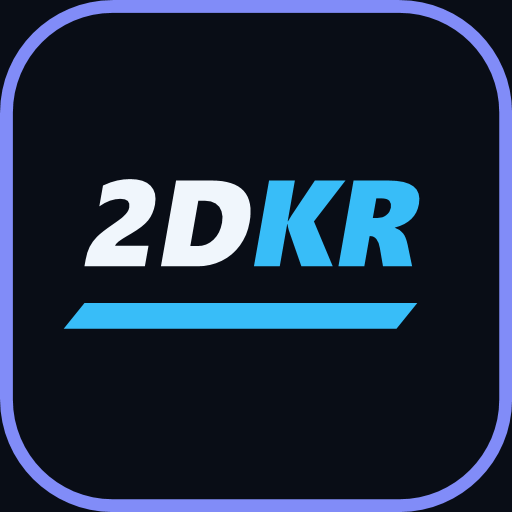
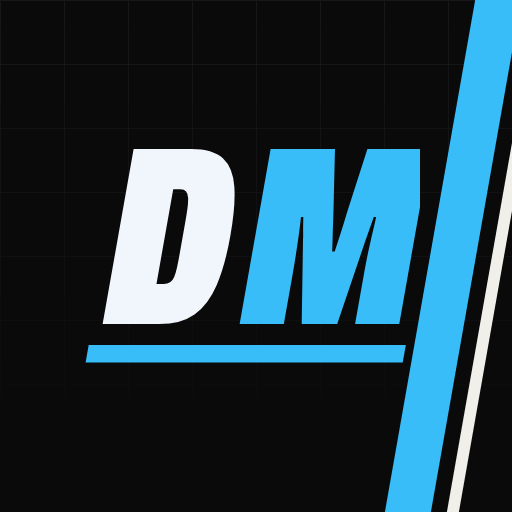
v0.8 : renommage en DekurMods
- Nouveau logo DEKURMODS, favicon et icones (monogramme DM)
- Apercus OpenGraph refaits avec le nouveau nom
- Textes, canonique, sitemap et robots.txt sur dekurmods.com
- Journal des changements en v0.8

diff --git a/index.html b/index.html
@@ -3,20 +3,20 @@
 <head>
   <meta charset="UTF-8">
   <meta name="viewport" content="width=device-width, initial-scale=1.0">
-  <title>2DKR — Mod menus GTA V | Cherax, Yari, Lexis</title>
+  <title>DekurMods — Mod menus GTA V | Cherax, Yari, Lexis</title>
   <meta name="description" content="Boutique de mod menus GTA V sur PC : Cherax, Yari, Lexis. Clé livrée dans ton ticket Discord, assistance à l'installation en option.">
   <meta name="theme-color" content="#0a0a0b">
-  <meta property="og:title" content="2DKR — Mod menus GTA V">
+  <meta property="og:title" content="DekurMods — Mod menus GTA V">
   <meta property="og:description" content="Cherax, Yari, Lexis : clé livrée dans ton ticket Discord, assistance à l'installation en option.">
   <meta property="og:type" content="website">
-  <meta property="og:url" content="https://2dkr.pages.dev/">
-  <meta property="og:site_name" content="2DKR">
+  <meta property="og:url" content="https://dekurmods.com/">
+  <meta property="og:site_name" content="DekurMods">
   <meta property="og:locale" content="fr_FR">
-  <meta property="og:image" content="https://2dkr.pages.dev/og/accueil.png?v=5">
+  <meta property="og:image" content="https://dekurmods.com/og/accueil.png?v=6">
   <meta property="og:image:width" content="1200">
   <meta property="og:image:height" content="630">
   <meta name="twitter:card" content="summary_large_image">
-  <link rel="canonical" href="https://2dkr.pages.dev/">
+  <link rel="canonical" href="https://dekurmods.com/">
   <link rel="icon" href="/favicon.svg" type="image/svg+xml">
   <link rel="apple-touch-icon" href="/apple-touch-icon.png">
   <link rel="manifest" href="/site.webmanifest">
@@ -33,7 +33,7 @@
   <div class="status mono">
     <div class="wrap">
       <span><i class="dot"></i>Services opérationnels</span>
-      <button type="button" class="ver" id="version-badge" aria-haspopup="dialog"><b>v0.7</b> — Nouveautés</button>
+      <button type="button" class="ver" id="version-badge" aria-haspopup="dialog"><b>v0.8</b> — Nouveautés</button>
       <span>PC uniquement</span>
       <span>PayPal · SOL / USDC · Virement</span>
     </div>
@@ -41,7 +41,7 @@
 
     <header class="nav">
     <div class="wrap">
-      <a class="logo" href="index.html" aria-label="2DKR — Accueil"><img src="logo-site.svg" alt="2DKR" width="65" height="28"></a>
+      <a class="logo" href="index.html" aria-label="DekurMods — Accueil"><img src="logo-site.svg" alt="DekurMods" width="124" height="28"></a>
 
       <nav class="links" aria-label="Navigation principale">
         <a href="#boutique">Boutique</a>
@@ -89,7 +89,7 @@
           <div>
             <p class="kicker mono rv" style="--i:0">Revendeur · GTA V · PC</p>
             <h1 class="rv" style="--i:1"><span>Les</span><em>Mod<br>menus</em></h1>
-            <p class="lede rv" style="--i:2">Cherax, Yari, Lexis… Achète ton menu via 2DKR : clé livrée dans ton ticket Discord, assistance à l'installation en option.</p>
+            <p class="lede rv" style="--i:2">Cherax, Yari, Lexis… Achète ton menu via DekurMods : clé livrée dans ton ticket Discord, assistance à l'installation en option.</p>
             <div class="ctas rv" style="--i:3">
               <a class="btn btn-primary" href="#boutique">Voir les menus <i class="fa-solid fa-arrow-right"></i></a>
               <a class="btn btn-discord" href="https://discord.gg/sUAdU5v9aD" target="_blank"><i class="fa-brands fa-discord"></i> Rejoindre le Discord</a>
@@ -97,7 +97,7 @@
           </div>
 
           <aside class="sheet rv" style="--i:4" aria-label="En bref">
-            <div class="sheet-head mono"><span>En bref</span><span>2DKR</span></div>
+            <div class="sheet-head mono"><span>En bref</span><span>DekurMods</span></div>
             <dl>
               <dt>Jeu</dt><dd>GTA V · PC</dd>
               <dt>Menus</dt><dd class="js-menu-names">—</dd>
@@ -162,7 +162,7 @@
           <div>
             <h3>À savoir avant d'acheter</h3>
             <ul>
-              <li>Utiliser un mod menu comporte un <strong>risque de ban</strong> sur GTA Online. 2DKR ne peut pas être tenu responsable d'une sanction de Rockstar.</li>
+              <li>Utiliser un mod menu comporte un <strong>risque de ban</strong> sur GTA Online. DekurMods ne peut pas être tenu responsable d'une sanction de Rockstar.</li>
               <li>Il n'y a pas de garantie anti-ban sur les mod menus.</li>
             </ul>
           </div>
@@ -213,7 +213,7 @@
             </details>
             <details>
               <summary>Est-ce que je risque un ban ?</summary>
-              <p>Oui, utiliser un mod menu comporte toujours un risque sur GTA Online. 2DKR ne peut pas être tenu responsable d'une sanction de Rockstar, et il n'y a pas de garantie anti-ban sur les menus.</p>
+              <p>Oui, utiliser un mod menu comporte toujours un risque sur GTA Online. DekurMods ne peut pas être tenu responsable d'une sanction de Rockstar, et il n'y a pas de garantie anti-ban sur les menus.</p>
             </details>
             <details>
               <summary>Tu m'aides pour l'installation ?</summary>
@@ -248,16 +248,16 @@
         <a class="btn btn-discord" href="https://discord.gg/sUAdU5v9aD" target="_blank"><i class="fa-brands fa-discord"></i> Rejoindre le Discord</a>
       </div>
       <div class="foot-row">
-        <a class="logo" href="index.html"><img src="logo-site.svg" alt="2DKR" width="65" height="28"></a>
+        <a class="logo" href="index.html"><img src="logo-site.svg" alt="DekurMods" width="124" height="28"></a>
         <nav aria-label="Pied de page">
           <a href="#boutique">Boutique</a>
           <a href="avis.html">Avis &amp; Preuves</a>
           <a href="paiements.html">Paiements</a>
         </nav>
-        <span>© 2026 2DKR by Dekur. Tous droits réservés.</span>
+        <span>© 2026 DekurMods. Tous droits réservés.</span>
       </div>
     </div>
-    <div class="wordmark" aria-hidden="true">2DKR</div>
+    <div class="wordmark" aria-hidden="true">DekurMods</div>
   </footer>
 
   <!-- panier -->
@@ -461,10 +461,16 @@
 
   <dialog class="changelog" id="changelog" aria-labelledby="cl-title">
     <div class="cl-head">
-      <h2 id="cl-title">Nouveautés <em>v0.7</em></h2>
+      <h2 id="cl-title">Nouveautés <em>v0.8</em></h2>
       <button type="button" class="cl-close" aria-label="Fermer"><i class="fa-solid fa-xmark"></i></button>
     </div>
     <div class="cl-body">
+      <h3 class="mono">v0.8 — DekurMods</h3>
+      <ul>
+        <li><strong>Nouveau nom</strong> : 2DKR devient DekurMods, avec un nouveau logo.</li>
+        <li><strong>Nouvelle adresse</strong> : le site est maintenant sur dekurmods.com.</li>
+        <li><strong>TVA détectée automatiquement</strong> selon ton pays.</li>
+      </ul>
       <h3 class="mono">v0.7 — Boutique mod menus</h3>
       <ul>
         <li><strong>Accueil dédié aux mod menus</strong> : la boutique est en première page, avec filtres et panier.</li>

diff --git a/paiements.html b/paiements.html
@@ -3,18 +3,18 @@
 <head>
   <meta charset="UTF-8">
   <meta name="viewport" content="width=device-width, initial-scale=1.0">
-  <title>Paiements — 2DKR</title>
-  <meta name="description" content="Paiements 2DKR : PayPal, crypto SOL/USDC, virement bancaire, TVA selon ton pays et frais.">
+  <title>Paiements — DekurMods</title>
+  <meta name="description" content="Paiements DekurMods : PayPal, crypto SOL/USDC, virement bancaire, TVA selon ton pays et frais.">
   <meta name="theme-color" content="#0a0a0b">
-  <meta property="og:title" content="Paiements — 2DKR">
-  <meta property="og:description" content="Paiements 2DKR : PayPal, crypto SOL/USDC, virement bancaire, TVA selon ton pays et frais.">
+  <meta property="og:title" content="Paiements — DekurMods">
+  <meta property="og:description" content="Paiements DekurMods : PayPal, crypto SOL/USDC, virement bancaire, TVA selon ton pays et frais.">
   <meta property="og:type" content="website">
-  <meta property="og:url" content="https://2dkr.pages.dev/paiements.html">
-  <meta property="og:site_name" content="2DKR">
+  <meta property="og:url" content="https://dekurmods.com/paiements.html">
+  <meta property="og:site_name" content="DekurMods">
   <meta property="og:locale" content="fr_FR">
-  <meta property="og:image" content="https://2dkr.pages.dev/og/paiements.png?v=5">
+  <meta property="og:image" content="https://dekurmods.com/og/paiements.png?v=6">
   <meta name="twitter:card" content="summary_large_image">
-  <link rel="canonical" href="https://2dkr.pages.dev/paiements.html">
+  <link rel="canonical" href="https://dekurmods.com/paiements.html">
   <link rel="icon" href="favicon.svg" type="image/svg+xml">
   <link rel="apple-touch-icon" href="apple-touch-icon.png">
   <link rel="manifest" href="site.webmanifest">
@@ -37,7 +37,7 @@
 
   <header class="nav">
     <div class="wrap">
-      <a class="logo" href="index.html" aria-label="2DKR — Accueil"><img src="logo-site.svg" alt="2DKR" width="65" height="28"></a>
+      <a class="logo" href="index.html" aria-label="DekurMods — Accueil"><img src="logo-site.svg" alt="DekurMods" width="124" height="28"></a>
       <nav class="links" aria-label="Navigation principale"><a href="index.html#boutique">Boutique</a><a href="index.html#commande">Comment ça marche</a><a href="avis.html">Avis &amp; Preuves</a><a href="paiements.html" aria-current="page">Paiements</a><a href="index.html#faq">FAQ</a></nav>
       <div class="nav-end">
         <a class="icon-btn" href="https://discord.gg/sUAdU5v9aD" target="_blank" aria-label="Discord"><i class="fa-brands fa-discord"></i></a>
@@ -98,8 +98,8 @@
 
         <h2 class="sh" id="frais" style="margin-top:72px">Frais</h2>
         <div class="pgrid">
-          <div class="pcard rv"><i class="big-i fa-solid fa-building-columns" aria-hidden="true"></i><h3>Frais de ta banque ou de PayPal</h3><p>Les frais 2DKR sont ceux affichés sur le site. Si ta banque, PayPal ou le réseau crypto te prend quelque chose de son côté (ex. paiement par carte), ça dépend de ton compte, pas de 2DKR.</p></div>
-          <div class="pcard rv"><i class="big-i fa-solid fa-percent" aria-hidden="true"></i><h3>TVA selon ton pays</h3><p>Dans le panier de la boutique, ton pays est détecté automatiquement et la TVA correspondante (ex. 20 % pour la France) s'ajoute sur une ligne séparée. Ce n'est pas un frais 2DKR.</p></div>
+          <div class="pcard rv"><i class="big-i fa-solid fa-building-columns" aria-hidden="true"></i><h3>Frais de ta banque ou de PayPal</h3><p>Les frais DekurMods sont ceux affichés sur le site. Si ta banque, PayPal ou le réseau crypto te prend quelque chose de son côté (ex. paiement par carte), ça dépend de ton compte, pas de DekurMods.</p></div>
+          <div class="pcard rv"><i class="big-i fa-solid fa-percent" aria-hidden="true"></i><h3>TVA selon ton pays</h3><p>Dans le panier de la boutique, ton pays est détecté automatiquement et la TVA correspondante (ex. 20 % pour la France) s'ajoute sur une ligne séparée. Ce n'est pas un frais DekurMods.</p></div>
           <div class="pcard rv"><i class="big-i fa-solid fa-calendar-check" aria-hidden="true"></i><h3>Prix garanti</h3><p>Les changements de prix sont toujours annoncés à l'avance. Une commande ouverte en ticket garde le prix du jour où elle a été passée.</p></div>
         </div>
       </div>
@@ -115,16 +115,16 @@
         <a class="btn btn-discord" href="https://discord.gg/sUAdU5v9aD" target="_blank"><i class="fa-brands fa-discord"></i> Rejoindre le Discord</a>
       </div>
       <div class="foot-row">
-        <a class="logo" href="index.html"><img src="logo-site.svg" alt="2DKR" width="65" height="28"></a>
+        <a class="logo" href="index.html"><img src="logo-site.svg" alt="DekurMods" width="124" height="28"></a>
         <nav aria-label="Pied de page">
           <a href="index.html#boutique">Boutique</a>
           <a href="avis.html">Avis &amp; Preuves</a>
           <a href="paiements.html">Paiements</a>
         </nav>
-        <span>© 2026 2DKR by Dekur. Tous droits réservés.</span>
+        <span>© 2026 DekurMods. Tous droits réservés.</span>
       </div>
     </div>
-    <div class="wordmark" aria-hidden="true">2DKR</div>
+    <div class="wordmark" aria-hidden="true">DekurMods</div>
   </footer>
   <script src="assets/panier.js"></script>
   <script src="assets/shop.js"></script>

diff --git a/avis.html b/avis.html
@@ -3,18 +3,18 @@
 <head>
   <meta charset="UTF-8">
   <meta name="viewport" content="width=device-width, initial-scale=1.0">
-  <title>Avis &amp; Preuves — 2DKR</title>
-  <meta name="description" content="Avis et preuves des clients 2DKR : retours de la communauté et captures Discord.">
+  <title>Avis &amp; Preuves — DekurMods</title>
+  <meta name="description" content="Avis et preuves des clients DekurMods : retours de la communauté et captures Discord.">
   <meta name="theme-color" content="#0a0a0b">
-  <meta property="og:title" content="Avis &amp; Preuves — 2DKR">
-  <meta property="og:description" content="Avis et preuves des clients 2DKR : retours de la communauté et captures Discord.">
+  <meta property="og:title" content="Avis &amp; Preuves — DekurMods">
+  <meta property="og:description" content="Avis et preuves des clients DekurMods : retours de la communauté et captures Discord.">
   <meta property="og:type" content="website">
-  <meta property="og:url" content="https://2dkr.pages.dev/avis.html">
-  <meta property="og:site_name" content="2DKR">
+  <meta property="og:url" content="https://dekurmods.com/avis.html">
+  <meta property="og:site_name" content="DekurMods">
   <meta property="og:locale" content="fr_FR">
-  <meta property="og:image" content="https://2dkr.pages.dev/og/avis.png?v=5">
+  <meta property="og:image" content="https://dekurmods.com/og/avis.png?v=6">
   <meta name="twitter:card" content="summary_large_image">
-  <link rel="canonical" href="https://2dkr.pages.dev/avis.html">
+  <link rel="canonical" href="https://dekurmods.com/avis.html">
   <link rel="icon" href="favicon.svg" type="image/svg+xml">
   <link rel="apple-touch-icon" href="apple-touch-icon.png">
   <link rel="manifest" href="site.webmanifest">
@@ -37,7 +37,7 @@
 
   <header class="nav">
     <div class="wrap">
-      <a class="logo" href="index.html" aria-label="2DKR — Accueil"><img src="logo-site.svg" alt="2DKR" width="65" height="28"></a>
+      <a class="logo" href="index.html" aria-label="DekurMods — Accueil"><img src="logo-site.svg" alt="DekurMods" width="124" height="28"></a>
       <nav class="links" aria-label="Navigation principale"><a href="index.html#boutique">Boutique</a><a href="index.html#commande">Comment ça marche</a><a href="avis.html" aria-current="page">Avis &amp; Preuves</a><a href="paiements.html">Paiements</a><a href="index.html#faq">FAQ</a></nav>
       <div class="nav-end">
         <a class="icon-btn" href="https://discord.gg/sUAdU5v9aD" target="_blank" aria-label="Discord"><i class="fa-brands fa-discord"></i></a>
@@ -161,7 +161,7 @@ Pour menu ou lobby 10/10 parfait"</p>
 
         <div class="cta-box rv">
           <h2>Voir toutes les preuves en direct</h2>
-          <p>Rejoins le serveur Discord pour consulter le salon <b>#avis</b> et voir ce que les clients du serveur discord 2DKR disent, et peut-être que tu es le prochain ?</p>
+          <p>Rejoins le serveur Discord pour consulter le salon <b>#avis</b> et voir ce que les clients du serveur discord DekurMods disent, et peut-être que tu es le prochain ?</p>
           <a href="https://discord.gg/sUAdU5v9aD" target="_blank" rel="noopener noreferrer" class="btn"><i class="fa-brands fa-discord"></i> Rejoindre le Discord</a>
         </div>
       </div>
@@ -184,16 +184,16 @@ Pour menu ou lobby 10/10 parfait"</p>
         <a class="btn btn-discord" href="https://discord.gg/sUAdU5v9aD" target="_blank"><i class="fa-brands fa-discord"></i> Rejoindre le Discord</a>
       </div>
       <div class="foot-row">
-        <a class="logo" href="index.html"><img src="logo-site.svg" alt="2DKR" width="65" height="28"></a>
+        <a class="logo" href="index.html"><img src="logo-site.svg" alt="DekurMods" width="124" height="28"></a>
         <nav aria-label="Pied de page">
           <a href="index.html#boutique">Boutique</a>
           <a href="avis.html">Avis &amp; Preuves</a>
           <a href="paiements.html">Paiements</a>
         </nav>
-        <span>© 2026 2DKR by Dekur. Tous droits réservés.</span>
+        <span>© 2026 DekurMods. Tous droits réservés.</span>
       </div>
     </div>
-    <div class="wordmark" aria-hidden="true">2DKR</div>
+    <div class="wordmark" aria-hidden="true">DekurMods</div>
   </footer>
   <script src="assets/panier.js"></script>
   <script src="assets/shop.js"></script>

diff --git a/404.html b/404.html
@@ -3,18 +3,18 @@
 <head>
   <meta charset="UTF-8">
   <meta name="viewport" content="width=device-width, initial-scale=1.0">
-  <title>Page introuvable — 2DKR</title>
+  <title>Page introuvable — DekurMods</title>
   <meta name="description" content="Cette page n'existe pas.">
   <meta name="theme-color" content="#0a0a0b">
-  <meta property="og:title" content="Page introuvable — 2DKR">
+  <meta property="og:title" content="Page introuvable — DekurMods">
   <meta property="og:description" content="Cette page n'existe pas.">
   <meta property="og:type" content="website">
-  <meta property="og:url" content="https://2dkr.pages.dev/">
-  <meta property="og:site_name" content="2DKR">
+  <meta property="og:url" content="https://dekurmods.com/">
+  <meta property="og:site_name" content="DekurMods">
   <meta property="og:locale" content="fr_FR">
-  <meta property="og:image" content="https://2dkr.pages.dev/og/accueil.png?v=5">
+  <meta property="og:image" content="https://dekurmods.com/og/accueil.png?v=6">
   <meta name="twitter:card" content="summary_large_image">
-  <link rel="canonical" href="https://2dkr.pages.dev/">
+  <link rel="canonical" href="https://dekurmods.com/">
   <link rel="icon" href="/favicon.svg" type="image/svg+xml">
   <link rel="apple-touch-icon" href="/apple-touch-icon.png">
   <link rel="manifest" href="/site.webmanifest">
@@ -37,7 +37,7 @@
 
   <header class="nav">
     <div class="wrap">
-      <a class="logo" href="/index.html" aria-label="2DKR — Accueil"><img src="/logo-site.svg" alt="2DKR" width="65" height="28"></a>
+      <a class="logo" href="/index.html" aria-label="DekurMods — Accueil"><img src="/logo-site.svg" alt="DekurMods" width="124" height="28"></a>
       <nav class="links" aria-label="Navigation principale"><a href="/index.html#boutique">Boutique</a><a href="/index.html#commande">Comment ça marche</a><a href="/avis.html">Avis &amp; Preuves</a><a href="/paiements.html">Paiements</a><a href="/index.html#faq">FAQ</a></nav>
       <div class="nav-end">
         <a class="icon-btn" href="https://discord.gg/sUAdU5v9aD" target="_blank" aria-label="Discord"><i class="fa-brands fa-discord"></i></a>
@@ -75,16 +75,16 @@
         <a class="btn btn-discord" href="https://discord.gg/sUAdU5v9aD" target="_blank"><i class="fa-brands fa-discord"></i> Rejoindre le Discord</a>
       </div>
       <div class="foot-row">
-        <a class="logo" href="/index.html"><img src="/logo-site.svg" alt="2DKR" width="65" height="28"></a>
+        <a class="logo" href="/index.html"><img src="/logo-site.svg" alt="DekurMods" width="124" height="28"></a>
         <nav aria-label="Pied de page">
           <a href="/index.html#boutique">Boutique</a>
           <a href="/avis.html">Avis &amp; Preuves</a>
           <a href="/paiements.html">Paiements</a>
         </nav>
-        <span>© 2026 2DKR by Dekur. Tous droits réservés.</span>
+        <span>© 2026 DekurMods. Tous droits réservés.</span>
       </div>
     </div>
-    <div class="wordmark" aria-hidden="true">2DKR</div>
+    <div class="wordmark" aria-hidden="true">DekurMods</div>
   </footer>
   <script src="/assets/panier.js"></script>
   <script src="/assets/shop.js"></script>

diff --git a/assets/shop.css b/assets/shop.css
@@ -269,7 +269,7 @@
     .foot-row { display: flex; justify-content: space-between; align-items: center; gap: 24px; flex-wrap: wrap; padding: 28px 0; border-top: 1px solid var(--line); color: var(--muted); font-size: .95rem; }
     .foot-row nav { display: flex; flex-wrap: wrap; gap: 22px; }
     .foot-row a:hover { color: var(--paper); }
-    .wordmark { font: 900 clamp(8rem, 33vw, 30rem)/.74 var(--display); font-stretch: 62%; font-style: italic; letter-spacing: -.05em; color: var(--ink-2); text-align: center; white-space: nowrap; user-select: none; margin-bottom: -.1em; -webkit-text-stroke: 1px var(--line); }
+    .wordmark { font: 900 clamp(4rem, 17vw, 16rem)/.74 var(--display); font-stretch: 62%; font-style: italic; letter-spacing: -.05em; color: var(--ink-2); text-align: center; white-space: nowrap; user-select: none; margin-bottom: -.1em; -webkit-text-stroke: 1px var(--line); }
 
     /* apparition au défilement */
     .rv { opacity: 0; transform: translateY(28px); transition: opacity .7s cubic-bezier(.2, .7, .2, 1), transform .7s cubic-bezier(.2, .7, .2, 1); }

diff --git a/modmenus.html b/modmenus.html
@@ -3,9 +3,9 @@
 <head>
   <meta charset="UTF-8">
   <meta name="viewport" content="width=device-width, initial-scale=1.0">
-  <title>2DKR — Mod menus</title>
+  <title>DekurMods — Mod menus</title>
   <meta name="robots" content="noindex">
-  <link rel="canonical" href="https://2dkr.pages.dev/#boutique">
+  <link rel="canonical" href="https://dekurmods.com/#boutique">
   <meta http-equiv="refresh" content="0; url=index.html#boutique">
   <script>location.replace('index.html#boutique');</script>
   <style>body { background: #0a0a0b; color: #8f8e89; font-family: system-ui, sans-serif; text-align: center; padding-top: 20vh; } a { color: #38bdf8; }</style>

diff --git a/assets/panier.js b/assets/panier.js
@@ -211,7 +211,7 @@
     // Texte à coller dans le ticket Discord
     recap: function (articles) {
       articles = articles || panier;
-      var lignes = ['🛒 Commande 2DKR', ''];
+      var lignes = ['🛒 Commande DekurMods', ''];
       // Compte Discord connecté : le ticket indique tout de suite qui commande et son statut
       var compte = window.DKRAuth && DKRAuth.etat().user;
       if (compte) lignes.push('Discord : ' + compte.nom + (compte.verifie ? ' (Client vérifié)' : ''), '');
